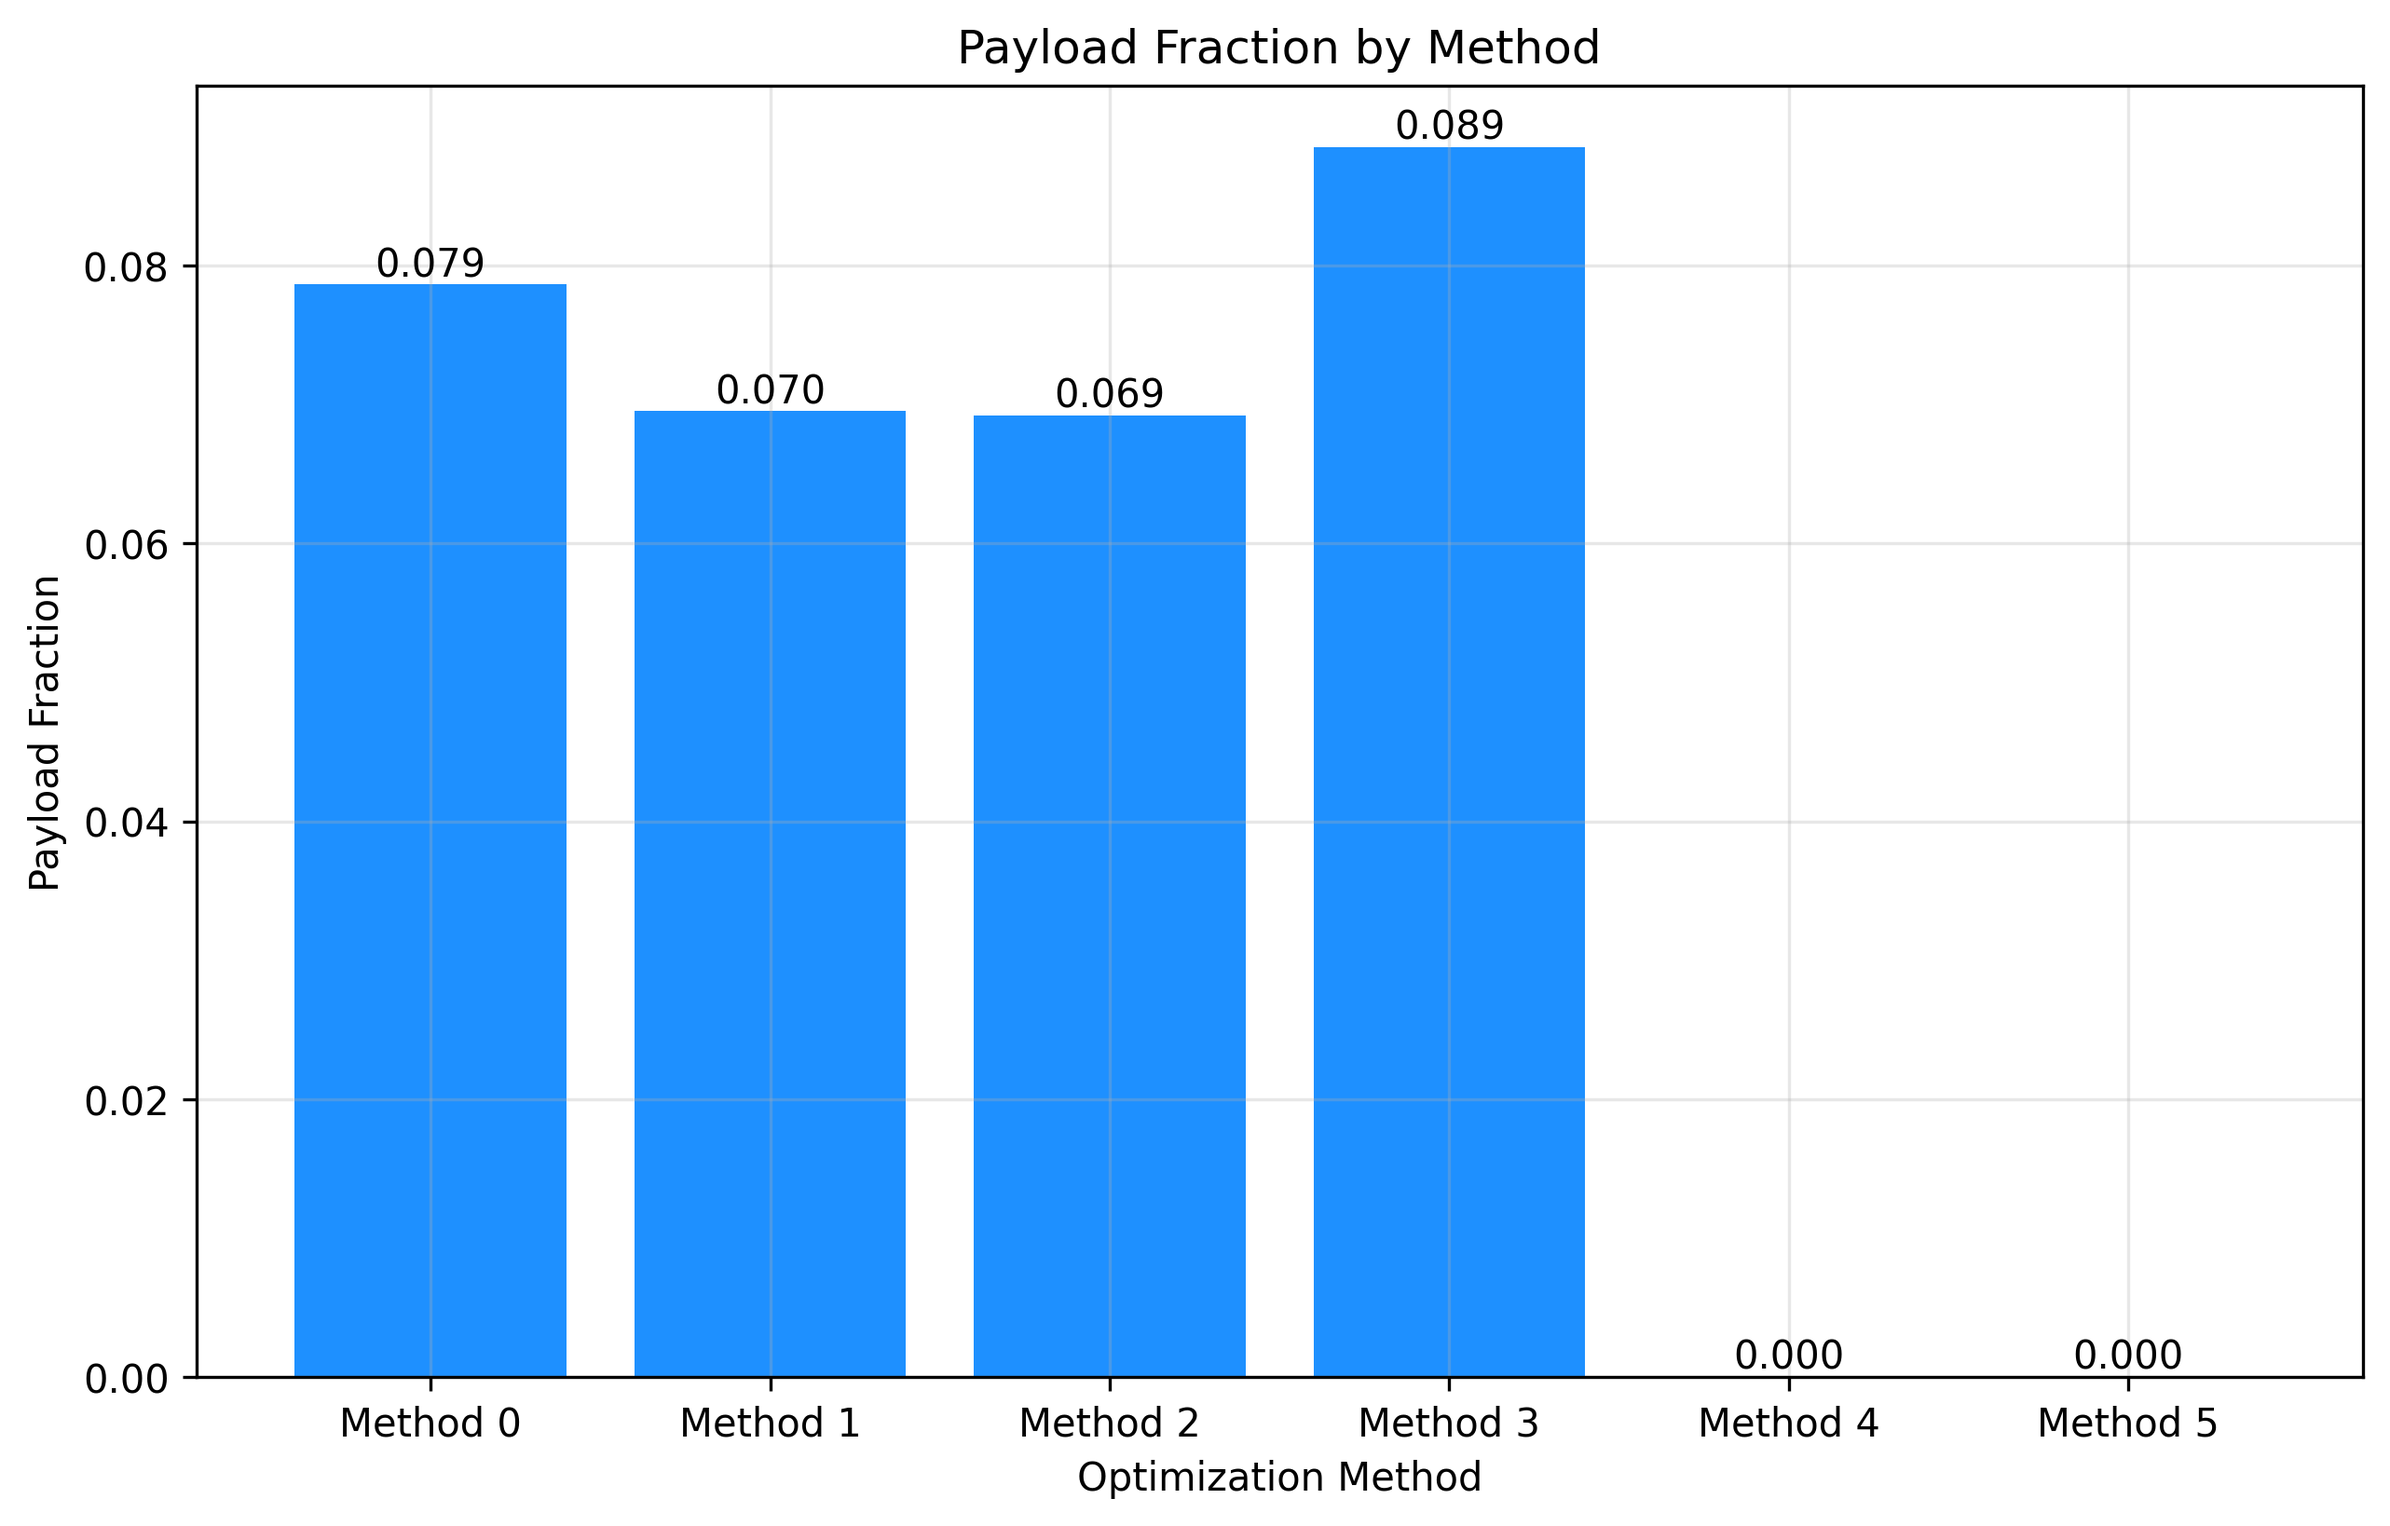
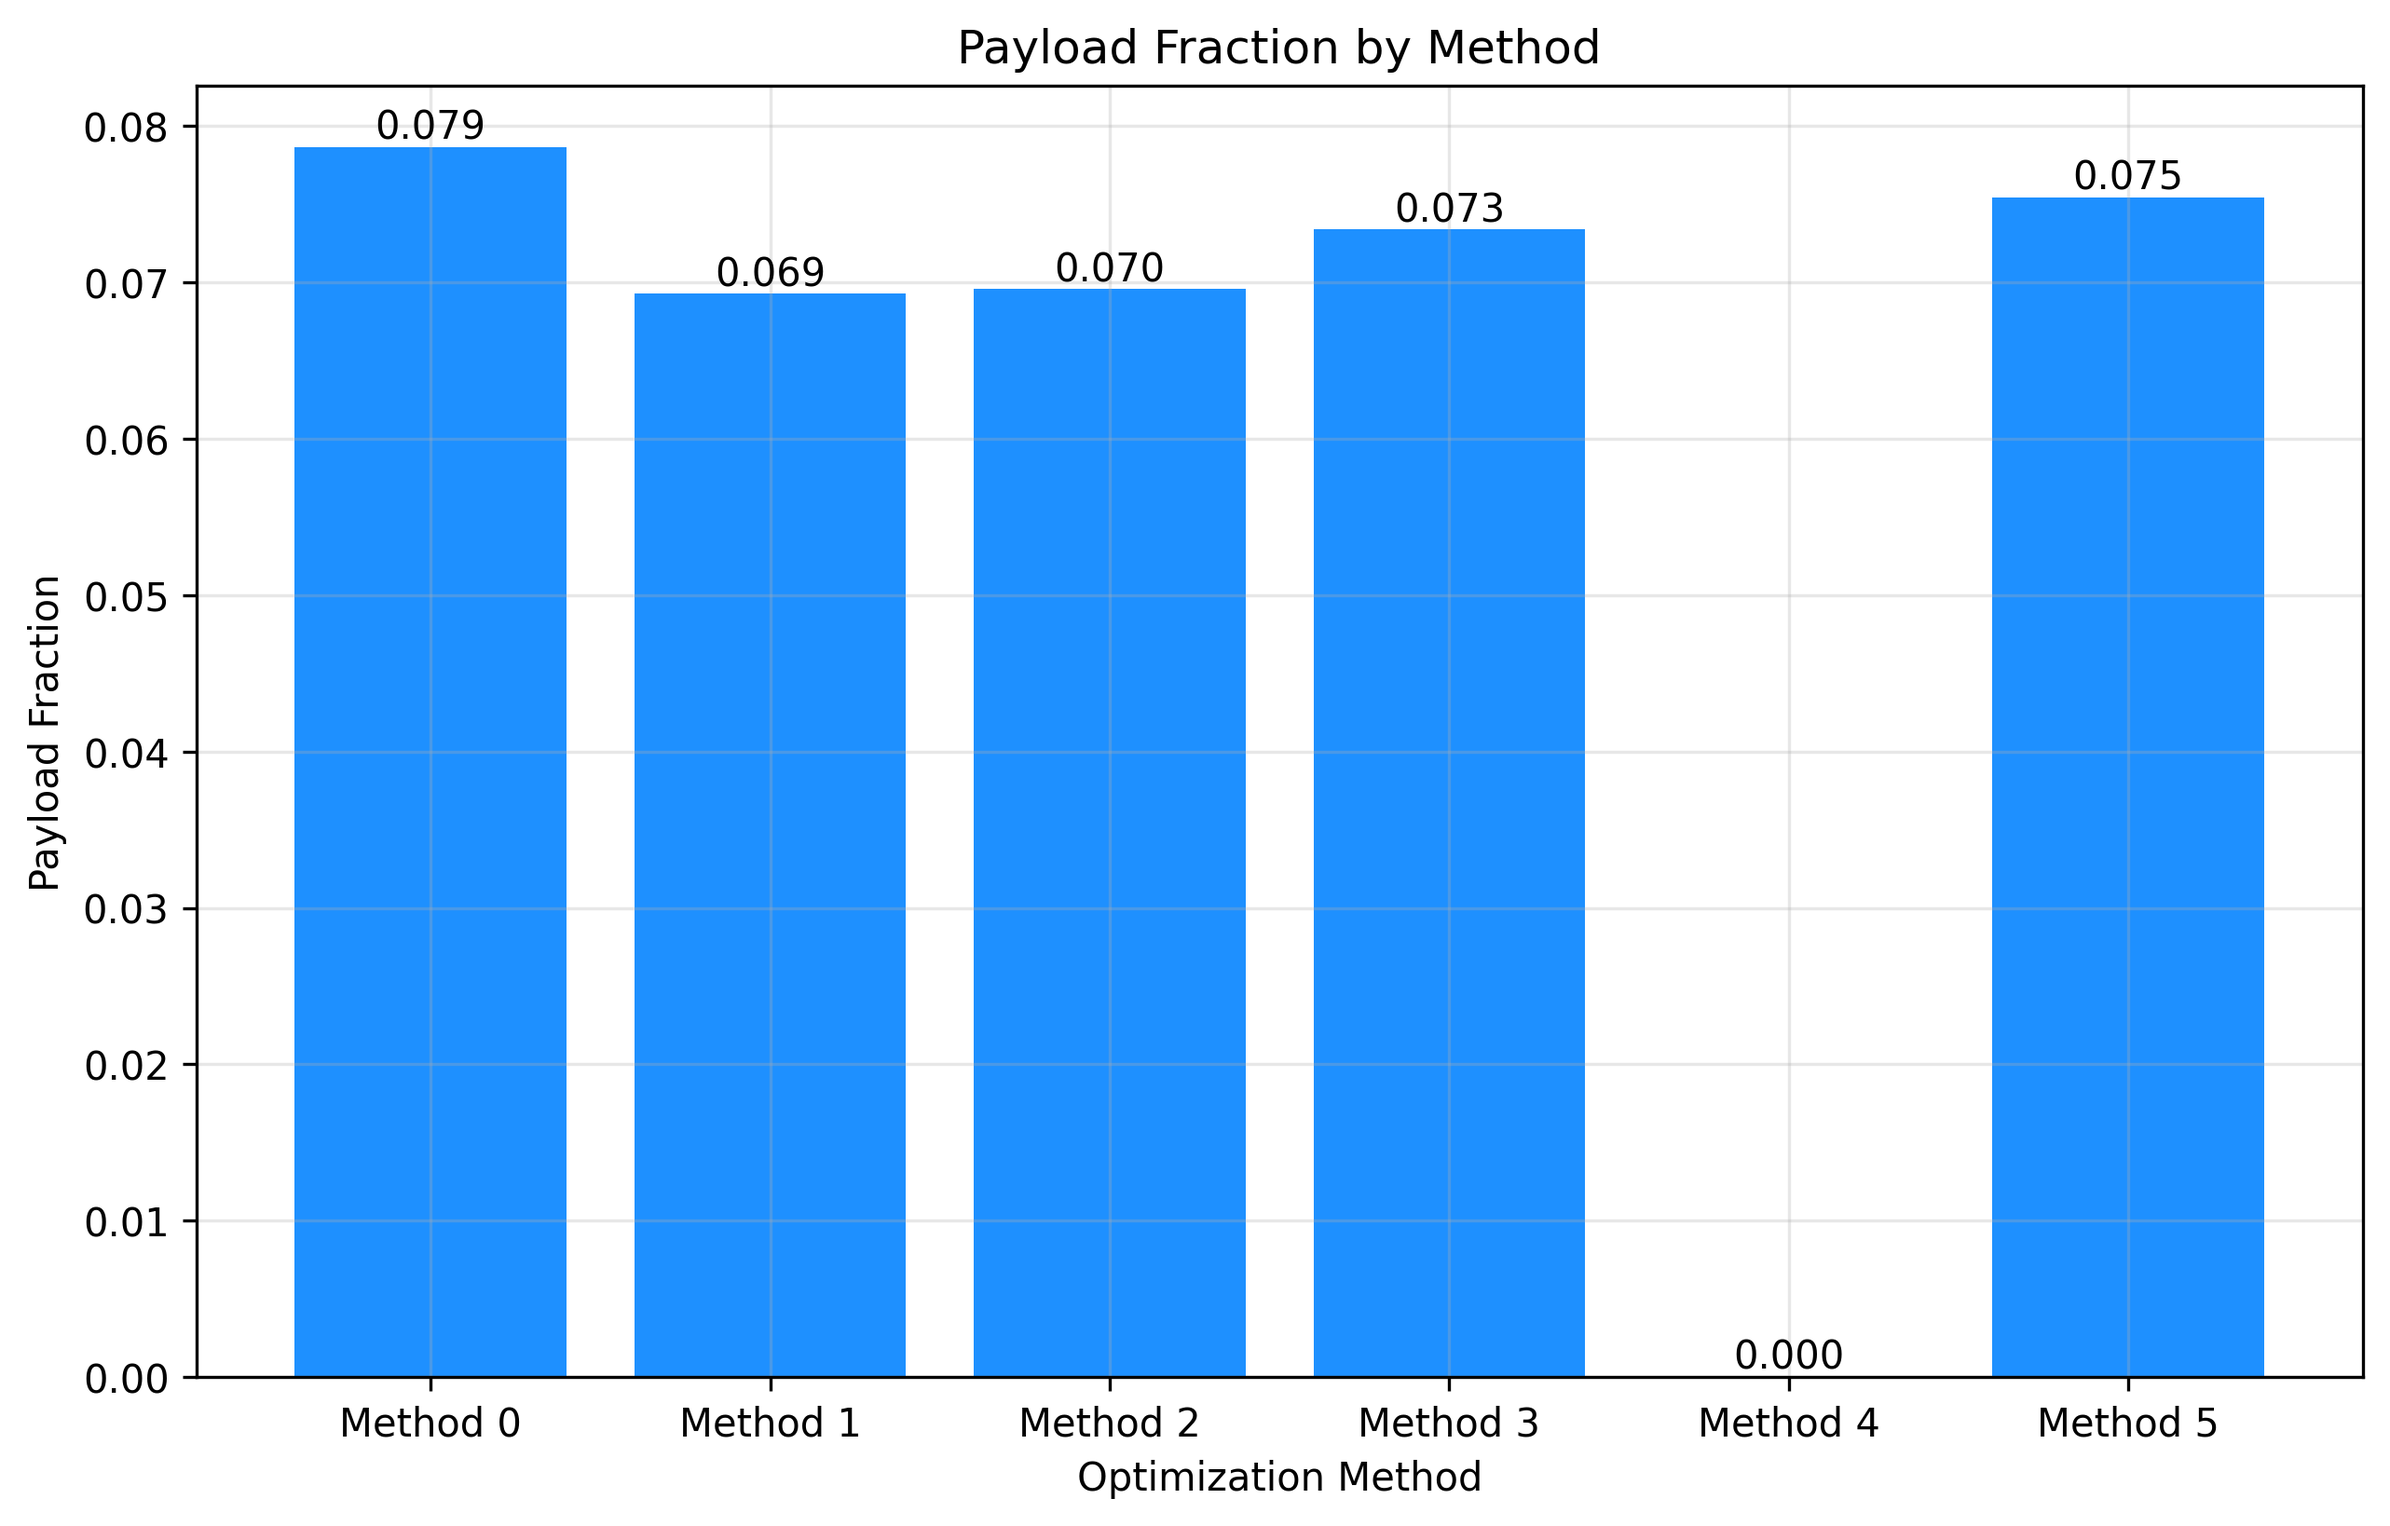
fixed DE

diff --git a/Stage_Opt/src/optimization/solvers/de_solver.py b/Stage_Opt/src/optimization/solvers/de_solver.py
@@ -21,7 +21,7 @@ class DifferentialEvolutionSolver(BaseSolver):
         self.recombination = recombination
         self.n_stages = len(bounds)
         self.best_solution = None
-        self.best_fitness = float('-inf')
+        self.best_fitness = float('inf')
         self.best_violation = float('inf')
         
     def project_to_feasible(self, x):
@@ -66,6 +66,10 @@ class DifferentialEvolutionSolver(BaseSolver):
                 
         return best_x, best_obj
 
+    def _objective_wrapper(self, x):
+        """Wrapper for the objective function to ensure proper mapping."""
+        return float(self.objective(x))
+        
     def solve(self, initial_guess, bounds):
         """Solve using enhanced Differential Evolution."""
         try:
@@ -84,7 +88,7 @@ class DifferentialEvolutionSolver(BaseSolver):
             
             # Run DE with enhanced parameters
             result = differential_evolution(
-                func=self.objective,  # Explicitly name the parameter
+                func=self._objective_wrapper,  # Use wrapper function
                 bounds=bounds,
                 strategy=self.strategy,
                 maxiter=self.maxiter,
@@ -92,10 +96,10 @@ class DifferentialEvolutionSolver(BaseSolver):
                 tol=self.tol,
                 mutation=self.mutation,
                 recombination=self.recombination,
-                x0=initial_guess,  # Provide initial guess
-                init='array',  # Use array initialization
+                x0=initial_guess,
+                init='latinhypercube',  # Use Latin Hypercube sampling for better coverage
                 updating='immediate',
-                workers=-1,  # Use default serial processing
+                workers=1,  # Force single worker to avoid mapping issues
                 disp=False,
                 polish=False
             )
